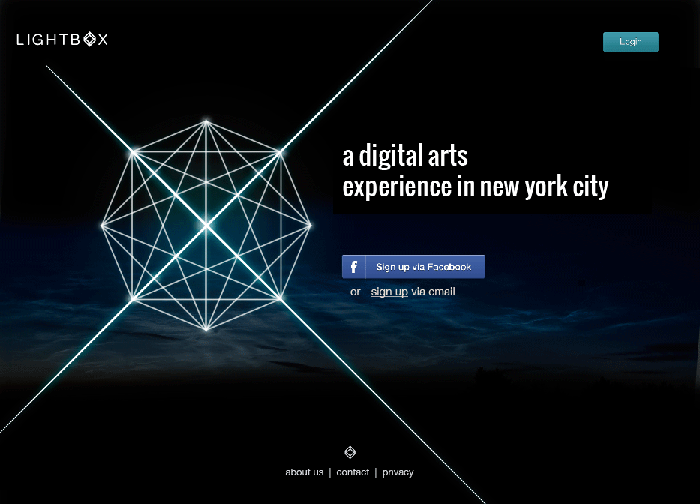
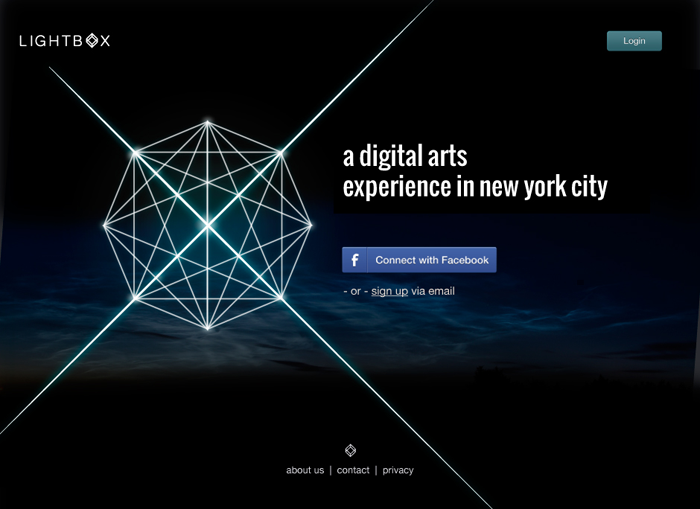
mobile friendly

diff --git a/views/stylesheets/partials/_responsive-767px-max.sass b/views/stylesheets/partials/_responsive-767px-max.sass
@@ -6,7 +6,21 @@
   // Padding to set content in a bit
   body
     padding-left: 20px
-    padding-right: 20px		
+    padding-right: 20px	
+	
+  #background
+    background: url(/img/medbg.png) no-repeat 0 0, #89AB2A
+    position: absolute
+    top: 0
+    left: 0
+    right: 0
+    bottom: 0
+    z-index: 100
+    background-size: 100%
+
+  #foreground
+    background: none
+
   // Negative indent the now static "fixed" navbar
   .navbar-fixed-top,
   .navbar-fixed-bottom,
@@ -88,6 +102,28 @@
     &.fade.in
       top: auto
 
+  .page-header
+    display: block
+    line-height: $baseLineHeight
+    margin-top: 35px
+
+
+  ul.service_list
+    margin: 0
+    width: 100%
+    float: none
+    li
+      margin-bottom: 10px
+
+  ul.client_list
+    margin: 0 
+    width: 100%
+    float: none
+    li
+      font-weight: 400px
+      margin-bottom: 10px
+
+
 // UP TO LANDSCAPE PHONE
 // ---------------------
 
@@ -104,32 +140,16 @@
     background-size: 100%
 
   #foreground
-    background: url(/img/movingclouds.png) repeat-x 120% 50%
-    position: absolute
-    top: 0
-    left: 0
-    right: 0
-    bottom: 0
-    z-index: 200
-    -webkit-transition: left 100s linear
-    -moz-transition: left 100s linear
-    -o-transition: left 100s linear
-    -ms-transition: left 100s linear
-    transition: left 100s linear
-
-  #experiment:target #foreground 
-    left: -5000px
-
-  #experiment:hover #foreground 
-    left: -9999px
+    background: none
   // Smooth out the collapsing/expanding nav	
   .nav-collapse
     -webkit-transform: translate3d(0, 0, 0)
     // activate the GPU
   // Block level the page header small tag for readability
-  .page-header h1 small
+  .page-header
     display: block
     line-height: $baseLineHeight
+    margin-top: 35px
   // Update checkboxes for iOS
   input[type="checkbox"],
   input[type="radio"]
@@ -163,3 +183,25 @@
   // Carousel
   .carousel-caption
     position: static
+
+  .row,
+  .thumbnails
+    margin-left: 0
+  .thumbnails > li
+    float: none
+    margin-left: 0
+
+  ul.service_list
+    margin: 0
+    width: 100%
+    float: none
+    li
+      margin-bottom: 10px
+
+  ul.client_list
+    margin: 0 
+    width: 100%
+    float: none
+    li
+      font-weight: 400px
+      margin-bottom: 10px

diff --git a/views/stylesheets/partials/_responsive-navbar.sass b/views/stylesheets/partials/_responsive-navbar.sass
@@ -10,18 +10,19 @@
   // Remove any padding from the body
   body
     padding-top: 0
-		background: white
   // Unfix the navbars
   .navbar-fixed-top,
   .navbar-fixed-bottom
     position: static
   .navbar-fixed-top
-    margin-bottom: $baseLineHeight
+    margin-bottom: $baseLineHeight		
   .navbar-fixed-bottom
     margin-top: $baseLineHeight
   .navbar-fixed-top .navbar-inner,
   .navbar-fixed-bottom .navbar-inner
-    padding: 5px
+    z-index: 9999
+    position: relative
+    padding: none
   .navbar .container
     width: auto
     padding: 0
@@ -53,8 +54,8 @@
   .nav-collapse .dropdown-menu a
     padding: 9px 15px
     font-weight: bold
-    color: $navbarLinkColor
-    +border-radius(3px)
+    color: #262626
+    +border-radius(0px)
   // Buttons
   .nav-collapse .btn
     padding: 4px 10px 4px
@@ -64,7 +65,7 @@
     margin-bottom: 2px
   .nav-collapse .nav > li > a:hover,
   .nav-collapse .dropdown-menu a:hover
-    background-color: $navbarBackground
+    background-color: rgba(117, 83, 134, .4)
   .navbar-inverse .nav-collapse .nav > li > a:hover,
   .navbar-inverse .nav-collapse .dropdown-menu a:hover
     background-color: $navbarInverseBackground

diff --git a/views/stylesheets/style.sass b/views/stylesheets/style.sass
@@ -1,5 +1,5 @@
-$navbarBackgroundHighlight: #416191
-$navbarBackground: rgba(117, 83, 134, .7)
+$navbarBackgroundHighlight: rgba(117, 83, 134, .4)
+$navbarBackground: rgba(117, 83, 134, .4)
 $navbarBrandColor: white
 $navbarLinkColor: white
 $navbarLinkColorHover: white
@@ -24,7 +24,7 @@ body
   &.work,
   &.contact
     background: #D2D2D2
-    background: url('/img/bg.png') no-repeat 25px -43px, #D2D2D2
+    background: url('/img/bg.png') no-repeat 3px -43px, #D2D2D2
 
 #background
   background: url(/img/lightbgday.png) no-repeat 0 0, #89AB2A
@@ -105,7 +105,7 @@ body
 
 // about styles
 ul.service_list
-  margin: 0 
+  margin: 0
   list-style: none
   width: 450px
   float: left
@@ -139,5 +139,17 @@ ul.client_list
   h4
     margin: 30px 0 15px 0
     font-weight: 400
+		
+.page-header
+  padding-bottom: $baseLineHeight / 2 - 1
+  margin: 100px auto 20px
+  border-bottom: 1px solid #4B4C4D
+  font-family: $headingsFontFamily
+  font-weight: 100
 
-    
+.page-header2
+  padding-bottom: $baseLineHeight / 2 - 1
+  margin: 30px auto 20px
+  border-bottom: 1px solid #4B4C4D
+  font-family: $headingsFontFamily
+  font-weight: 100

diff --git a/views/stylesheets/partials/_responsive-768px-979px.sass b/views/stylesheets/partials/_responsive-768px-979px.sass
@@ -10,3 +10,36 @@
   // Input grid
   +grid-input($gridColumnWidth768, $gridGutterWidth768)
   // No need to reset .thumbnails here since it's the same $gridGutterWidth
+
+  #background
+    background: url(/img/medbg.png) no-repeat 0 0, #89AB2A
+    position: absolute
+    top: 0
+    left: 0
+    right: 0
+    bottom: 0
+    z-index: 100
+    background-size: 100%
+
+  #foreground
+    background: none
+
+  .page-header 
+    display: block
+    line-height: $baseLineHeight
+    margin-top: 35px
+
+  ul.service_list
+    margin: 0
+    width: 100%
+    float: none
+    li
+      margin-bottom: 10px
+
+  ul.client_list
+    margin: 0 
+    width: 100%
+    float: none
+    li
+      font-weight: 400px
+      margin-bottom: 10px

diff --git a/views/stylesheets/partials/_type.sass b/views/stylesheets/partials/_type.sass
@@ -101,12 +101,6 @@ h4 small
 // Page header
 // -------------------------
 
-.page-header
-  padding-bottom: $baseLineHeight / 2 - 1
-  margin: 40px auto 20px
-  border-bottom: 1px solid #4B4C4D
-  font-family: $headingsFontFamily
-  font-weight: 100
 
 
 // Lists
